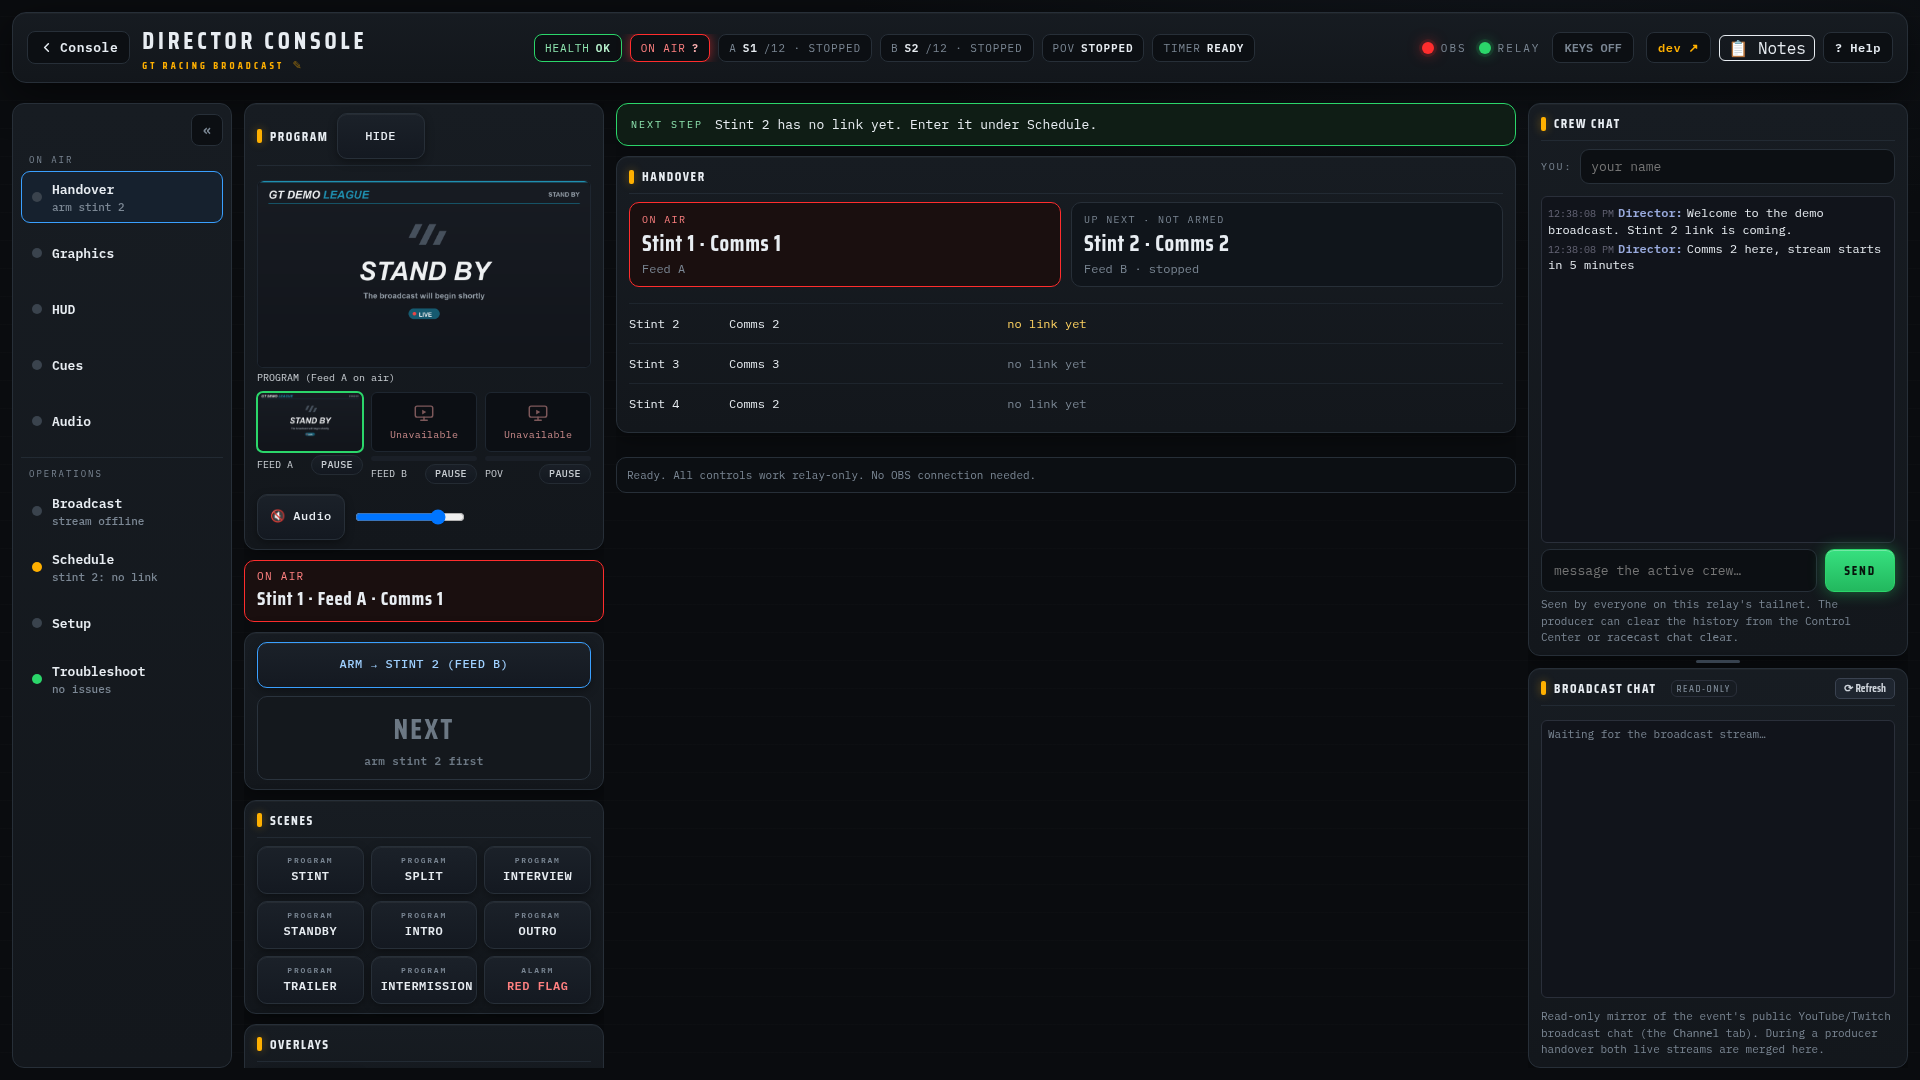
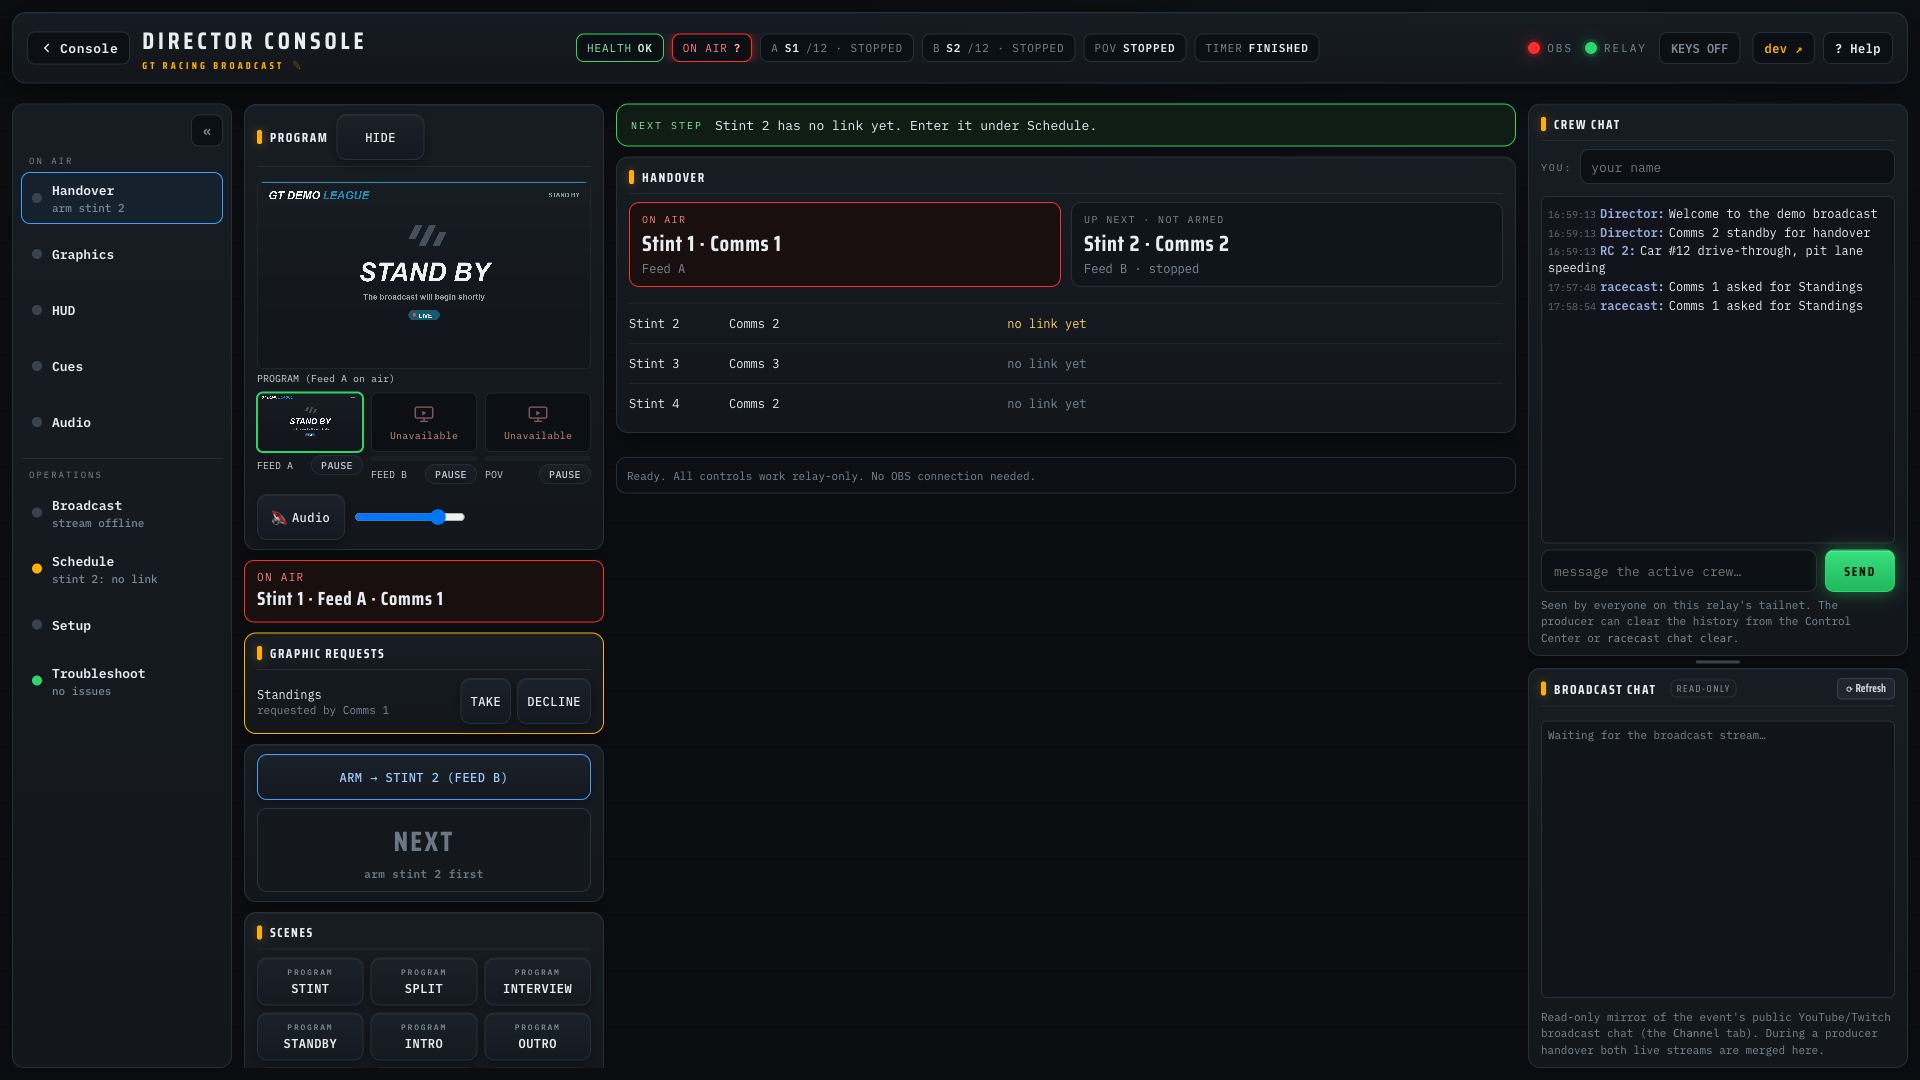
docs: show a crew graphic request in the Director Panel screenshot (#747)

diff --git a/src/docs/wiki/Director.md b/src/docs/wiki/Director.md
@@ -57,7 +57,7 @@ on a wide screen. Below 1280 px the chats move into a drawer opened by the **Cha
 button in the header, which also counts unread crew messages. Below 900 px (a phone)
 the page becomes one column: live column, navigation, area, chats.
 
-![The director panel: navigation on the left, the live column with program preview, scene keys, transition, ARM and NEXT, the Handover area in the middle, and the crew and broadcast chats on the right](images/director-panel.png)
+![The director panel: navigation on the left, the live column with program preview, a crew graphic request, ARM, NEXT and scene keys, the Handover area in the middle, and the crew and broadcast chats on the right](images/director-panel.png)
 
 Where each bus lives:
 
